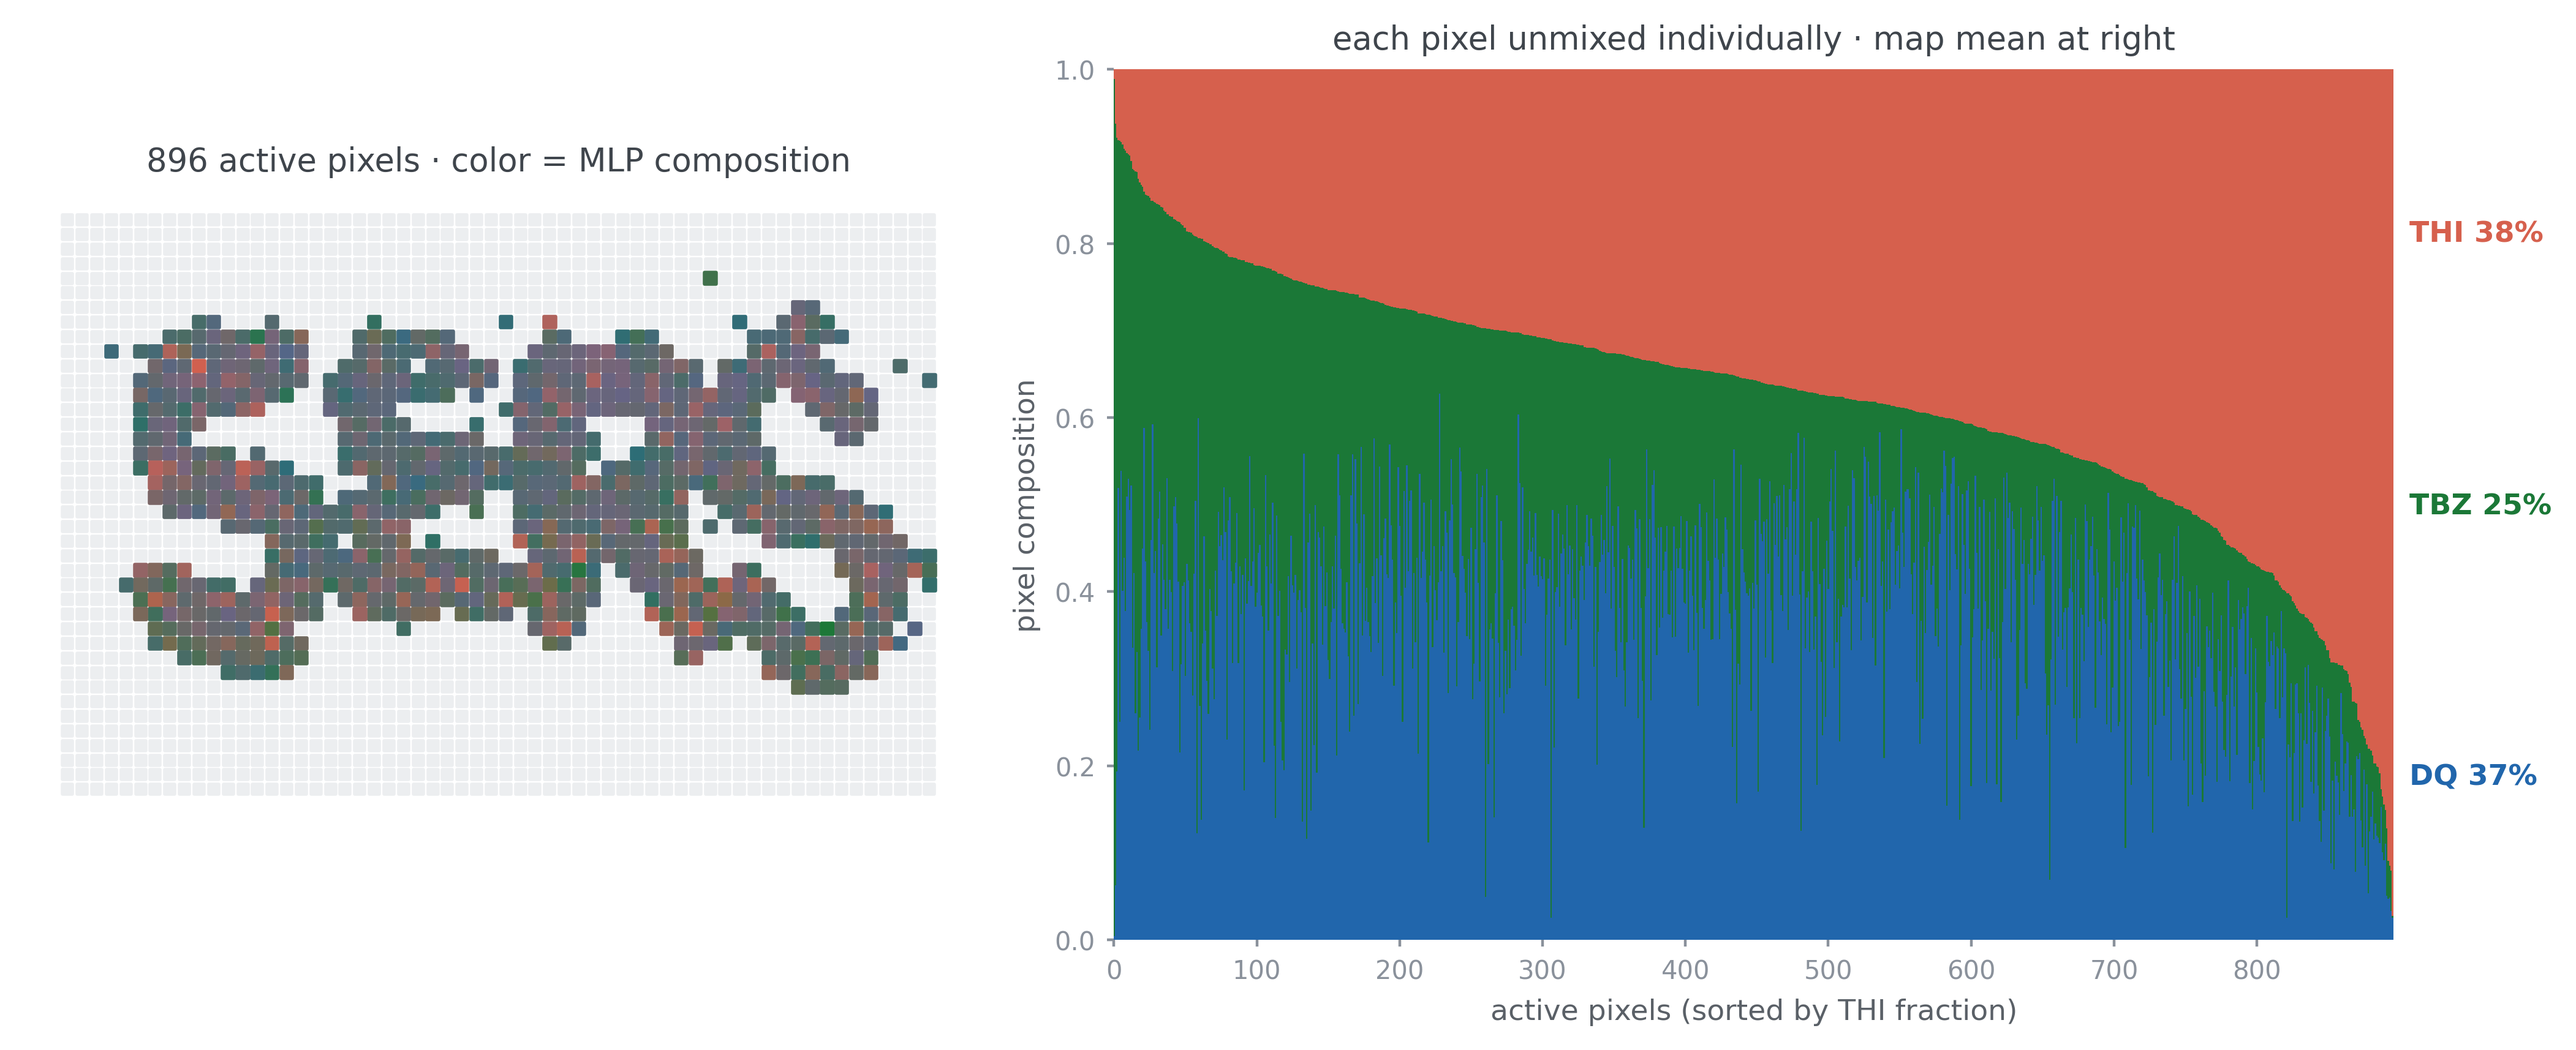
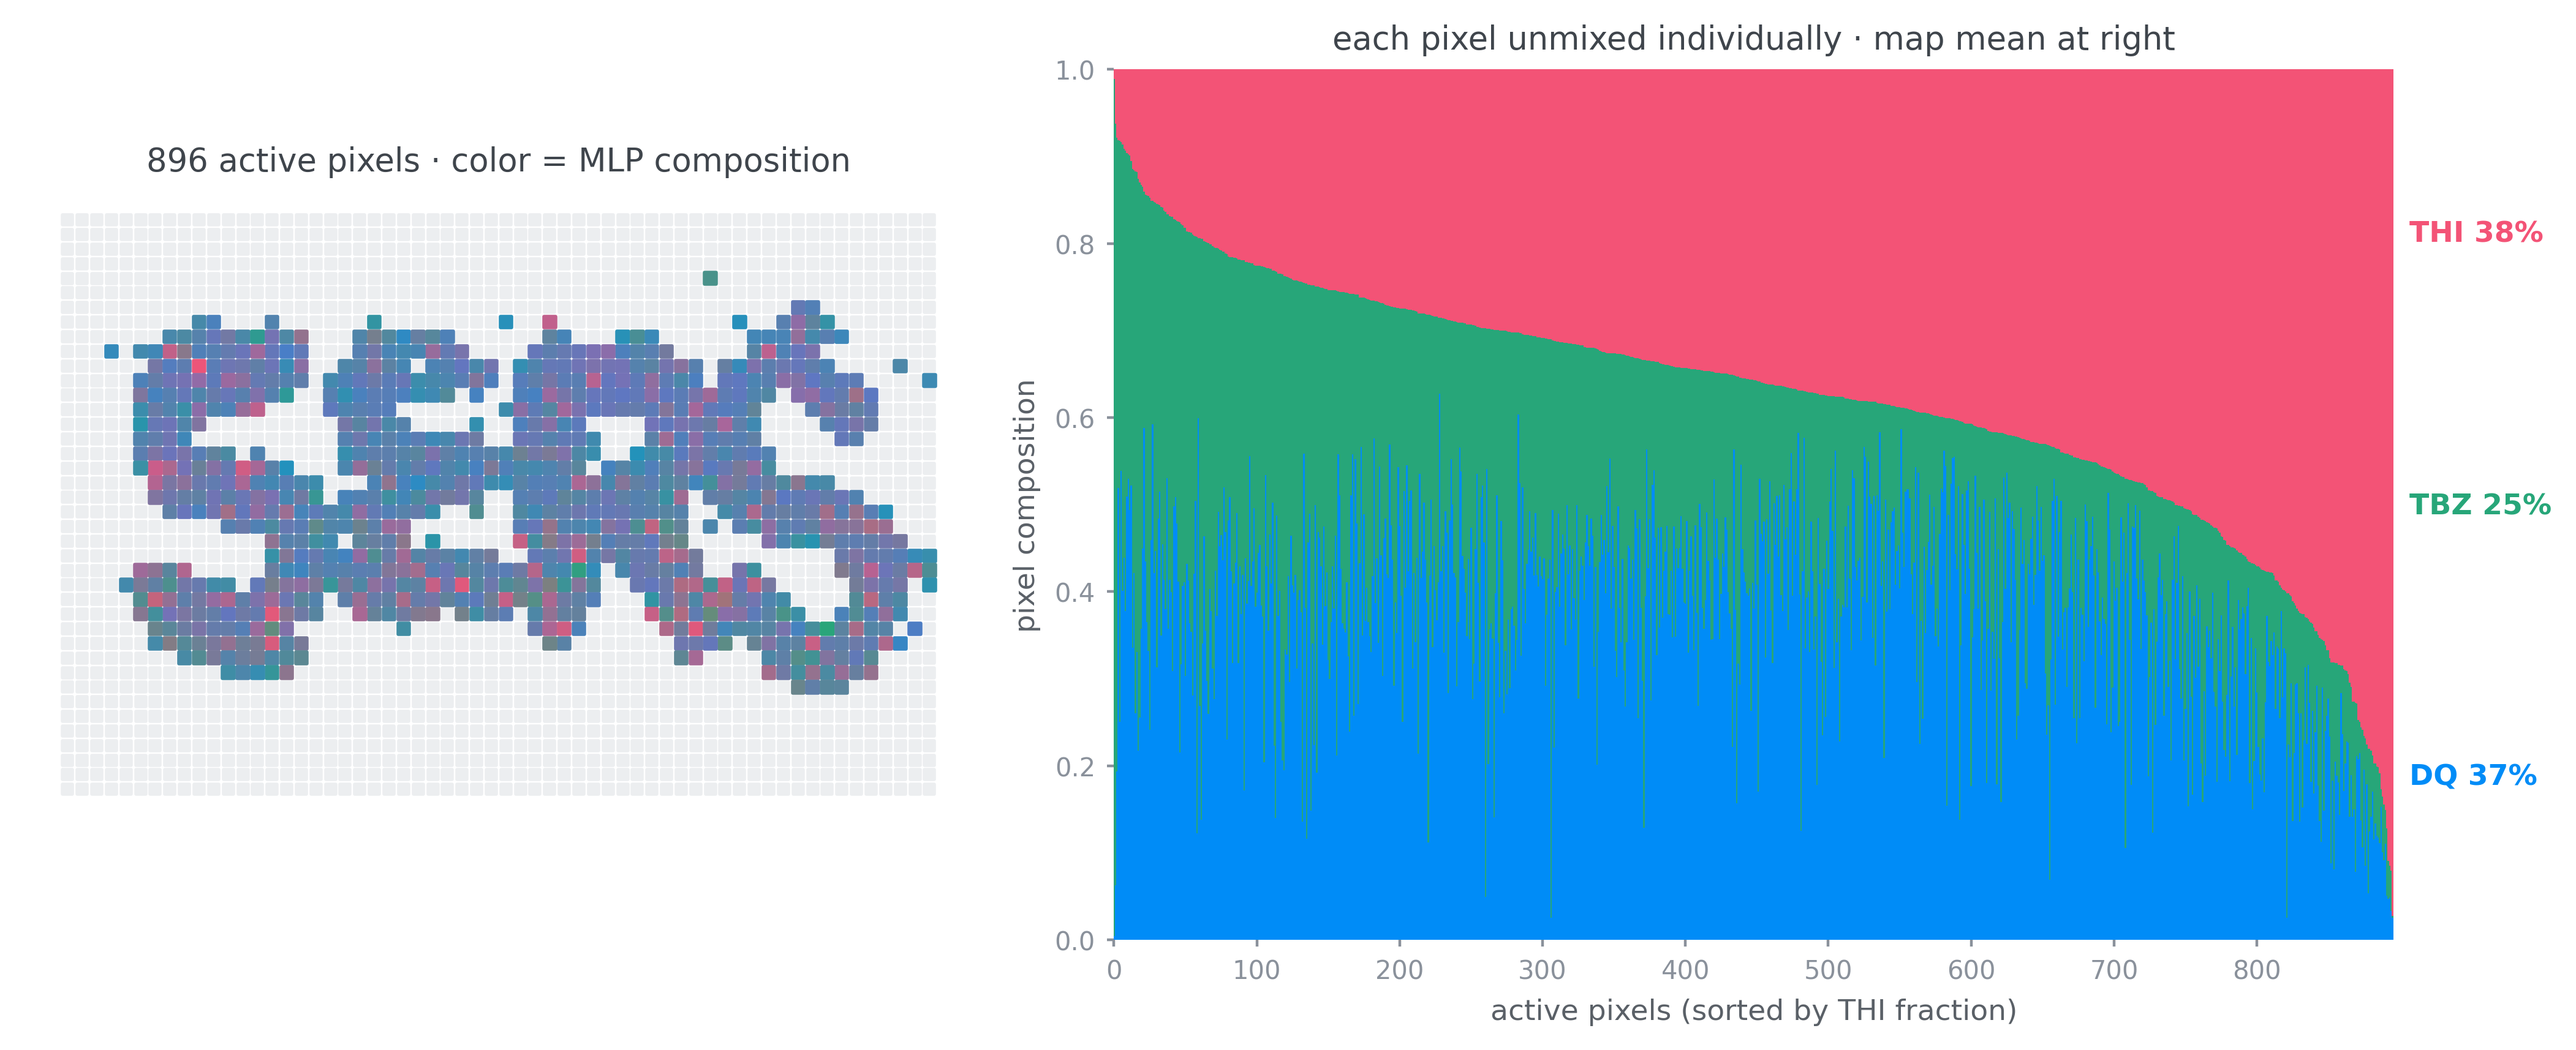
58d/59 recolored to app colors.json palette; 60: ink-map pixels in spiral grammar; 61: regime table as figure (defs match Discussion table)

diff --git a/documentation/scripts/fig60_ink_pixels_spiral.py b/documentation/scripts/fig60_ink_pixels_spiral.py
@@ -1,0 +1,136 @@
+# -*- coding: utf-8 -*-
+"""60 — 잉크 글씨맵의 활성 픽셀들을 스파이럴(폴라) 문법으로.
+
+제조 진실 12:12:12 → 참 조성 1/3씩. 픽셀마다
+  표면(NNLS ratio) = 저채도 굵은 running-median 곡선,
+  복원(MLP)       = 고채도 점 + 가는 running-median 곡선,
+반지름 = 참값(1/3) 대비 배율(log2, ±2 클립), 점선 원 = truth.
+각도 = 표면 THI 분율 순위(310° 스팬). 색 = Pure/colors.json.
+
+실행:  python -u fig60_ink_pixels_spiral.py
+"""
+from __future__ import annotations
+
+import io
+import os
+import sys
+
+import numpy as np
+
+sys.stdout = io.TextIOWrapper(sys.stdout.buffer, encoding="utf-8", errors="replace")
+HERE = os.path.dirname(os.path.abspath(__file__))
+ROOT = os.path.dirname(os.path.dirname(HERE))
+sys.path.insert(0, HERE)
+sys.path.insert(0, ROOT)
+import labfig  # noqa: E402
+
+import matplotlib
+
+matplotlib.use("Agg")
+import matplotlib.pyplot as plt
+from matplotlib.colors import to_rgb
+
+from dataset import load_preprocess  # noqa: E402
+from dl_model import load_model, apply_model_pixels  # noqa: E402
+from unmix import unmix_map  # noqa: E402
+
+DLM = r"S:\Google Drive\내 드라이브\ACF_PEST_DB\260831_Model_FINAL\mlp_composition_260831_final.dlm"
+PURE = r"S:\Google Drive\내 드라이브\ACF_PEST_DB\Pure"
+MAP = r"S:\Google Drive\내 드라이브\ACF_PEST_DB\Pest\260812_12 trio_THI_TBZ_DQ.csv"
+OUT = os.path.join(ROOT, "documentation", "results")
+
+CO = {s: labfig.CO[s] for s in ("DQ", "TBZ", "THI")}
+ORDER = ["DQ", "TBZ", "THI"]
+INK = "black"
+TRUE_SHARE = 1.0 / 3.0  # 제조 12:12:12
+
+
+def mute(c, f=0.68):
+    r, g, b = to_rgb(c)
+    gr = 0.82
+    return (r + (gr - r) * f, g + (gr - g) * f, b + (gr - b) * f)
+
+
+RMAX = 2.0
+PAD = 0.3
+
+
+def rad(x):
+    return np.clip(np.log2(np.clip(x, 1e-3, None)), -RMAX, RMAX) + RMAX
+
+
+A0, SPAN = 115, 310
+
+
+def ang(p):  # p in 0..100
+    return np.deg2rad(A0 + np.asarray(p) / 100.0 * SPAN)
+
+
+m = load_model(DLM)
+cfg = load_preprocess(PURE)
+r = unmix_map(data_dir=PURE, test_path=MAP, method="dlpx",
+              baseline=bool(m.get("baseline", cfg["baseline"])),
+              trim=cfg["trim"], min_frac=0.15, hit_mode="threshold",
+              dl_model=m)
+pk = np.clip(np.asarray(apply_model_pixels(m, r.wn, r.spectra), float), 0, None)
+cols = [list(m["subs"]).index(s) for s in ORDER]
+Rres = pk[:, cols] / (pk[:, cols].sum(1, keepdims=True) + 1e-12)
+Rsurf = np.asarray(r.ratio_nb, float)  # NNLS, order DQ TBZ THI
+sel = np.where(np.asarray(r.hit, bool))[0]
+print(f"active pixels: {len(sel)}")
+
+o = np.argsort(Rsurf[sel, 2])           # 표면 THI 분율 순위
+sel = sel[o]
+p = np.arange(len(sel)) / max(len(sel) - 1, 1) * 100.0
+
+
+def runmed(vals, win=6.0):
+    xs = np.linspace(1, 99, 80)
+    ys = np.array([np.median(vals[np.abs(p - c) <= win])
+                   if (np.abs(p - c) <= win).sum() >= 5 else np.nan
+                   for c in xs])
+    ok = ~np.isnan(ys)
+    return xs[ok], ys[ok]
+
+
+fig, ax = plt.subplots(figsize=(7.0, 7.0), subplot_kw=dict(polar=True))
+th = np.linspace(0, 2 * np.pi, 240)
+ax.plot(th, np.full_like(th, RMAX), color=INK, lw=1.1, ls=(0, (4, 3)), zorder=3)
+for f in (0.5, 2.0):
+    ax.plot(th, np.full_like(th, rad(f)), color="0.84", lw=0.6, ls=":", zorder=1)
+
+# 표면(NNLS): 저채도 굵은 곡선
+for k, s in enumerate(ORDER):
+    e = Rsurf[sel, k] / TRUE_SHARE
+    xs, ys = runmed(e)
+    ax.plot(ang(xs), np.clip(rad(ys), 0.06, 2 * RMAX + 0.1), color=mute(CO[s]),
+            lw=4.0, zorder=2, solid_capstyle="round")
+# 복원(MLP): 고채도 점 + 가는 곡선
+for k, s in enumerate(ORDER):
+    e = Rres[sel, k] / TRUE_SHARE
+    ax.scatter(ang(p), np.clip(rad(e), 0.06, 2 * RMAX - 0.04), s=4.5,
+               color=CO[s], alpha=0.30, edgecolor="none", zorder=4)
+    xs, ys = runmed(e)
+    ax.plot(ang(xs), np.clip(rad(ys), 0.06, 2 * RMAX - 0.04), color=CO[s],
+            lw=2.2, alpha=0.95, zorder=5, solid_capstyle="round")
+
+ax.text(np.deg2rad(A0 - 15), RMAX + 0.02, "truth", fontsize=8, color=INK,
+        ha="center", va="center")
+ax.text(np.deg2rad(A0 - 15), rad(2.0) + 0.10, "2×", fontsize=7.5,
+        color="#8a919b", ha="center")
+ax.text(np.deg2rad(A0 - 15), rad(0.5) - 0.16, "0.5×", fontsize=7.5,
+        color="#8a919b", ha="center")
+ax.text(float(ang(50)), 2 * RMAX + 0.55,
+        f"{len(sel)} active pixels · sorted by surface THI fraction →",
+        fontsize=8.5, color="#8a919b", ha="center")
+ax.text(float(ang(88)), rad(2.9), "surface (NNLS)", fontsize=9,
+        color=mute(CO["THI"], 0.4), fontweight="bold", ha="center")
+ax.text(float(ang(12)), rad(0.55), "restored (MLP)", fontsize=9, color=INK,
+        fontweight="bold", ha="center")
+ax.set_xticks([])
+ax.set_yticks([])
+ax.set_ylim(0, 2 * RMAX + PAD)
+ax.spines["polar"].set_visible(False)
+fig.savefig(os.path.join(OUT, "60_ink_pixels_spiral.png"), dpi=400,
+            bbox_inches="tight", facecolor="white")
+print("saved 60_ink_pixels_spiral.png")

diff --git a/documentation/scripts/fig61_regime_summary.py b/documentation/scripts/fig61_regime_summary.py
@@ -1,0 +1,85 @@
+# -*- coding: utf-8 -*-
+"""61 — 재분배 법칙의 체제별 요약 (Discussion 표를 그림으로).
+
+데이터: 50_redistribution_enrichment_RAW.csv (s, E, thi_share, total; 92조건).
+체제 정의는 Discussion 표와 동일(비배타): THI 소수(share≤45%) /
+THI 다수(share>45%) / 포화(총>50 µM). 성분별 median E + IQR, log2 축,
+truth=1 점선. 색 = Pure/colors.json.
+
+실행:  python -u fig61_regime_summary.py
+"""
+import csv
+import os
+import sys
+
+import numpy as np
+
+HERE = os.path.dirname(os.path.abspath(__file__))
+sys.path.insert(0, HERE)
+import labfig  # noqa: E402
+
+import matplotlib
+
+matplotlib.use("Agg")
+import matplotlib.pyplot as plt
+
+RES = os.path.join(HERE, "..", "results")
+CO = {s: labfig.CO[s] for s in ("DQ", "TBZ", "THI")}
+ORDER = ["THI", "TBZ", "DQ"]
+INK = "black"
+
+rows = list(csv.DictReader(
+    open(os.path.join(RES, "50_redistribution_enrichment_RAW.csv"),
+         encoding="utf-8-sig")))
+REG = [("THI minority\n(share ≤ 45%)", lambda sh, to: sh <= 45),
+       ("THI majority\n(share > 45%)", lambda sh, to: sh > 45),
+       ("saturated\n(total > 50 µM)", lambda sh, to: to > 50)]
+
+vals = {s: [[] for _ in REG] for s in CO}
+for r in rows:
+    s, e = r["s"], float(r["E"])
+    sh, to = float(r["thi_share"]), float(r["total"])
+    for j, (_, f) in enumerate(REG):
+        if f(sh, to):
+            vals[s][j].append(e)
+
+fig, ax = plt.subplots(figsize=(6.4, 4.0))
+ax.set_yscale("log", base=2)
+ax.axhline(1.0, color=INK, lw=1.1, ls=(0, (4, 3)), zorder=2)
+for f in (0.5, 2.0):
+    ax.axhline(f, color="0.86", lw=0.6, ls=":", zorder=1)
+DX = {"THI": -0.16, "TBZ": 0.0, "DQ": 0.16}
+for s in ORDER:
+    x = np.arange(len(REG)) + DX[s]
+    med = np.array([np.median(v) if v else np.nan for v in vals[s]])
+    q1 = np.array([np.percentile(v, 25) if v else np.nan for v in vals[s]])
+    q3 = np.array([np.percentile(v, 75) if v else np.nan for v in vals[s]])
+    ax.plot(x, med, color=CO[s], lw=1.4, alpha=0.55, zorder=3)
+    ax.errorbar(x, med, yerr=[med - q1, q3 - med], fmt="o", ms=6.5,
+                color=CO[s], ecolor=CO[s], elinewidth=1.4, capsize=3,
+                zorder=4, label=s)
+    for xi, mi in zip(x, med):
+        if np.isfinite(mi):
+            ax.annotate(f"×{mi:.2f}", (xi, mi), textcoords="offset points",
+                        xytext=(0, 8 if s == "THI" else -14), fontsize=7.5,
+                        color=CO[s], ha="center", fontweight="bold")
+    n = [len(v) for v in vals[s]]
+    print(s, "n per regime:", n, "median:", np.round(med, 2))
+ax.text(2.44, 1.0, "truth", fontsize=8, color=INK, va="center")
+ax.set_xticks(range(len(REG)))
+ax.set_xticklabels([t for t, _ in REG], fontsize=9, color="#3f454c")
+ax.set_yticks([0.25, 0.5, 1, 2])
+ax.set_yticklabels(["0.25×", "0.5×", "1×", "2×"])
+ax.set_ylabel("surface enrichment E (share vs truth)", fontsize=9,
+              color="#5a6067")
+ax.tick_params(labelsize=8, colors="#8a919b", length=2.5)
+for k in ("top", "right"):
+    ax.spines[k].set_visible(False)
+for k in ("left", "bottom"):
+    ax.spines[k].set_color("#b6bcc4")
+ax.legend(frameon=False, fontsize=8.5, loc="lower left")
+ax.set_xlim(-0.5, 2.7)
+fig.tight_layout()
+fig.savefig(os.path.join(RES, "61_regime_summary.png"), dpi=400,
+            bbox_inches="tight", facecolor="white")
+print("saved 61_regime_summary.png")

diff --git a/documentation/scripts/fig59_ink_pixel_unmixing.py b/documentation/scripts/fig59_ink_pixel_unmixing.py
@@ -34,7 +34,10 @@ PURE = r"S:\Google Drive\내 드라이브\ACF_PEST_DB\Pure"
 MAP = r"S:\Google Drive\내 드라이브\ACF_PEST_DB\Pest\260812_12 trio_THI_TBZ_DQ.csv"
 OUT = os.path.join(ROOT, "documentation", "results")
 
-CO = {"THI": "#D6604D", "TBZ": "#1B7837", "DQ": "#2166AC"}
+sys.path.insert(0, HERE)
+import labfig  # noqa: E402  — 색 단일 출처 = Pure/colors.json
+
+CO = {s: labfig.CO[s] for s in ("DQ", "TBZ", "THI")}
 ORDER = ["DQ", "TBZ", "THI"]  # stacked-bar order, bottom→top
 
 m = load_model(DLM)

diff --git a/documentation/scripts/fig58d_competition_cartesian.py b/documentation/scripts/fig58d_competition_cartesian.py
@@ -18,9 +18,14 @@ matplotlib.use("Agg")
 import matplotlib.pyplot as plt
 from matplotlib.colors import to_rgb
 
+import sys
+
 HERE = os.path.dirname(os.path.abspath(__file__))
+sys.path.insert(0, HERE)
+import labfig  # noqa: E402  — 색 단일 출처 = Pure/colors.json
+
 RES = os.path.join(HERE, "..", "results")
-CO = {"THI": "#D6604D", "TBZ": "#1B7837", "DQ": "#2166AC"}
+CO = {s: labfig.CO[s] for s in ("DQ", "TBZ", "THI")}
 INK = "black"
 
 
